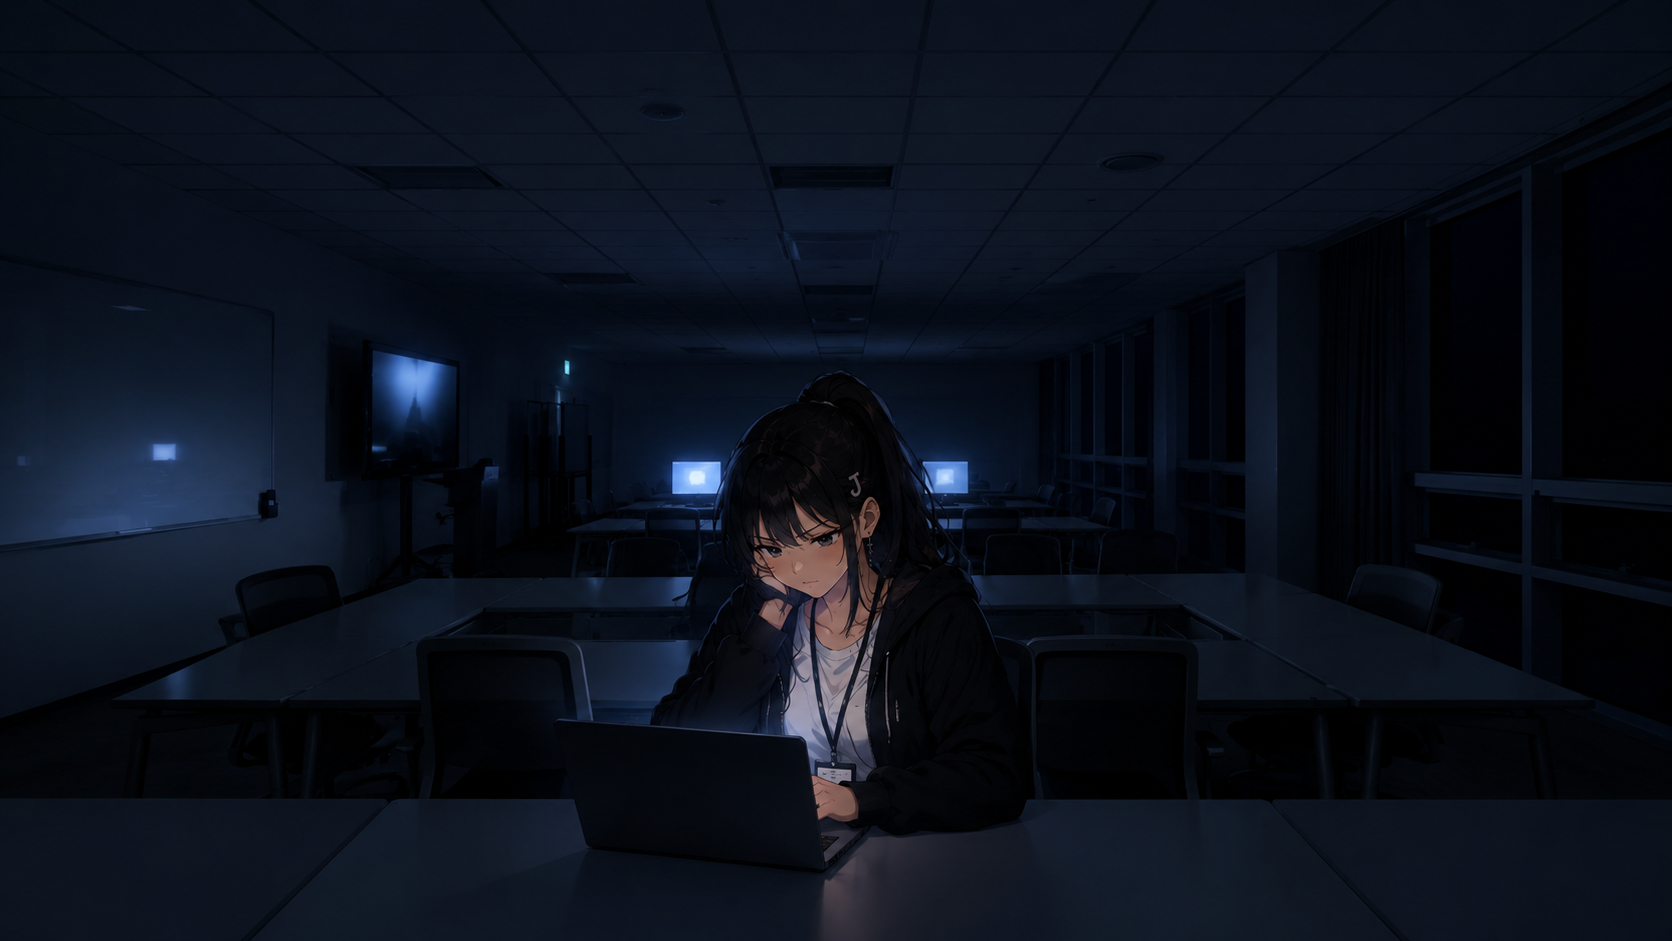
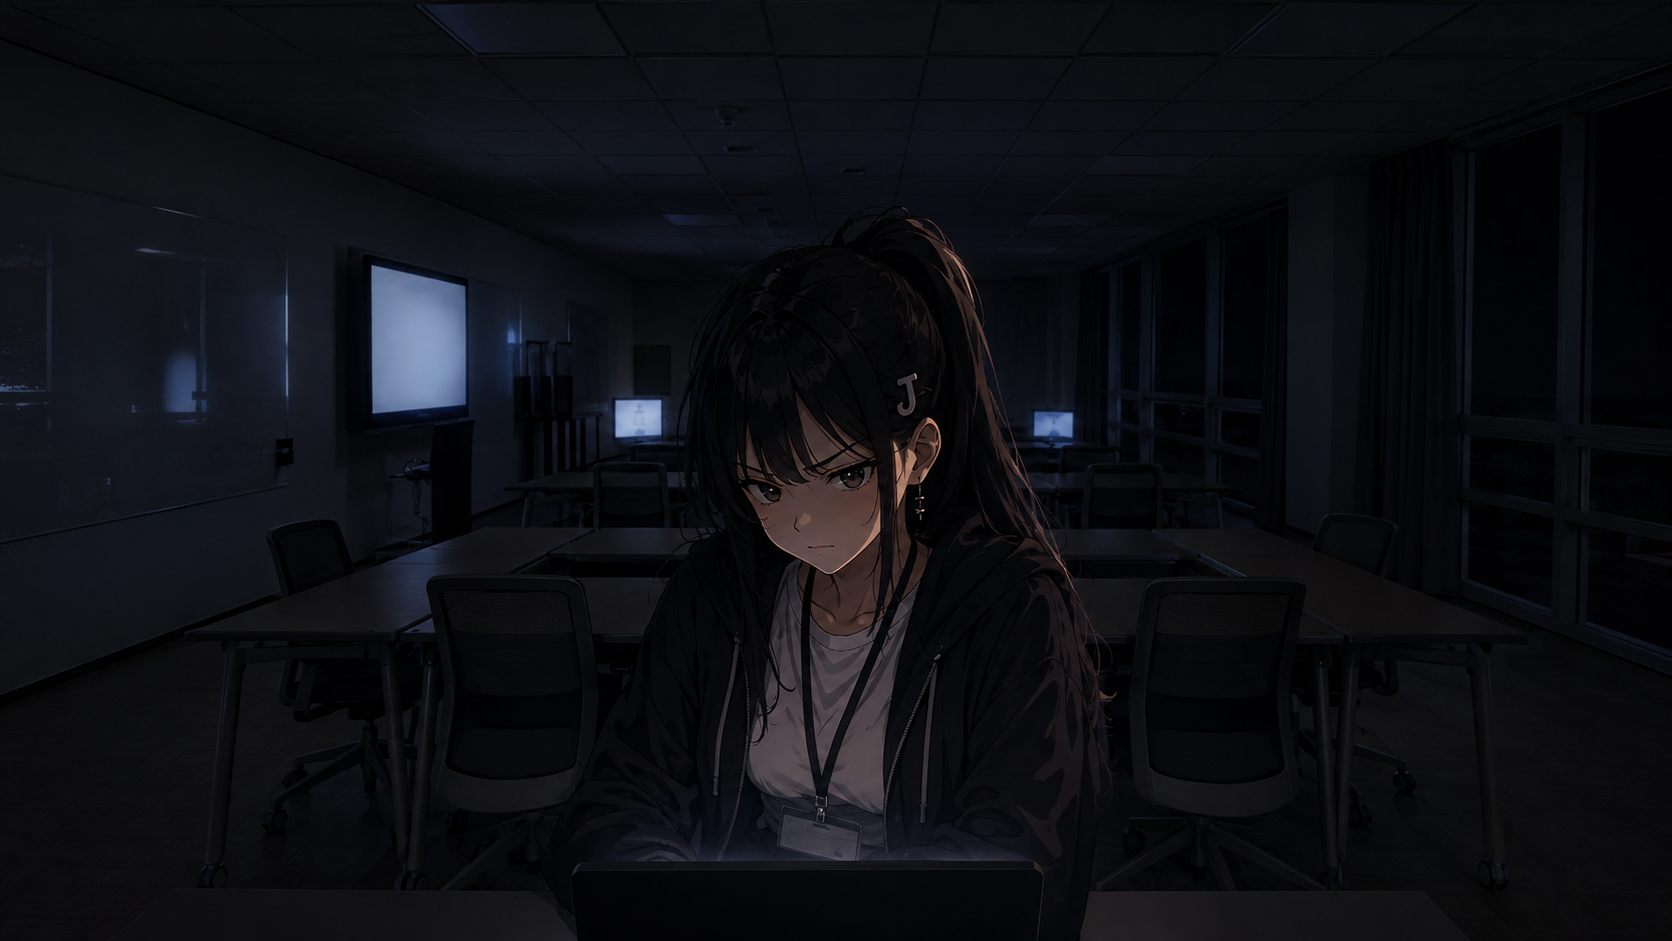
fix: 조원을 긍정에 적는다 · 윤호 뱃지를 세 씬 전부에
부정에서 "여러 명, 군중" 을 뺀 건 안 막았을 뿐이지 넣으라는 뜻이
아니었다. 승희와 윤정이 빈 강의실에 혼자 서 있는 그림으로 나왔다.
둘 다 다른 사람이 있어야 성립하는 순간이다.

  승희  뒤쪽 책상에 조원 서넛이 모여 무언가를 정하고 있음,
        그 무리에서 두세 걸음 떨어져 혼자, 아무도 이쪽을 보지 않음
  윤정  바로 앞에 조원 한 명이 등을 보이고 서 있음

조원은 등을 보이게 한다. 얼굴이 나오면 시선이 분산되고, 도트로만
존재하는 조연들의 얼굴을 여기서 정해버리게 된다.

윤정은 놀람의 종류도 정해줬다
  놀람 칸만 물리니 "깜짝이야" 가 나왔다. 모욕을 들은 순간이라
  "놀라움이 아니라 상처받은 얼굴, 하려던 말이 끊긴 채" 를 넣었다.

윤호 뱃지를 세 씬 전부에 박았다 — 가든에만 넣은 게 누락이었다
  클라이맥스에서 또 두 개로 나왔다. 한 번만 적으면 랜야드 옆에
  하나를 더 만든다. 윤정 헤드폰과 같은 현상이다.
  가든·클라이맥스는 "가슴에 딱 하나뿐", 엔딩은 "사원증 스트랩에
  딱 하나뿐, 가슴이나 옷에는 없음". 뱃지가 옮겨가는 게 5년의
  표시라 엔딩에서 가슴에 남아 있으면 안 된다.

윤호 시선 회피도 말로 적었다. 안 적으니 카메라를 봤다.

T10 민규 · T11 승민은 통과. 민규는 뒤쪽 모니터가 셋 다 켜져 있는데
정작 얼굴에 빛이 안 닿아서 "화면을 안 보고 있다" 가 그림으로 읽힌다.

diff --git a/tools/gen_prompts.py b/tools/gen_prompts.py
@@ -104,7 +104,15 @@ HEROINES = [
         """),
         garden="스케치북을 뺏기듯 내밀고 있음, 부끄러워함, 펼쳐진 페이지엔 사람들의 뒷모습만 그려져 있음",
         garden_face="부끄러움", climax_face="슬픔", ending_face="기쁨",
-        climax="조 결정에서 빠짐, 그때도 말을 못 함, 조금 떨어져 서 있음",
+        # 조원을 긍정에 적어야 그려진다. 부정에서 "여러 명, 군중" 을 뺀 건
+        # 안 막았을 뿐이지 넣으라는 뜻이 아니다. 빈 강의실에 혼자 나왔다.
+        # 조원은 등을 보이게 한다 — 얼굴이 나오면 시선이 분산되고, 도트로만
+        # 존재하는 조연들의 얼굴을 여기서 정해버리게 된다.
+        climax=block("""
+            뒤쪽 책상에 조원 서넛이 모여 무언가를 정하고 있음,
+            그 무리에서 두세 걸음 떨어져 혼자 서 있음, 아무도 이쪽을 보지 않음,
+            소매로 손을 감싼 채 말을 꺼내지 못하고 시선을 내림
+        """),
         ending_age=28, ending_bg="gallery",
         ending="이제 먼저 연락하는 사람이 됨, 자기 전시 작품 옆에 서 있음",
         ending_wear=block("""
@@ -134,7 +142,14 @@ HEROINES = [
             데크와 화단은 거의 검게 가라앉아 있음
         """),
         garden_face="슬픔", climax_face="놀람", ending_face="기쁨",
-        climax="헤드폰은 목에 걸려 있음, \"2학년이 뭘 아냐\"는 말을 방금 들음, 말하다 얼어붙음",
+        # 놀람 칸만 물리면 "깜짝이야" 가 나온다. 이건 모욕을 들은 순간이라
+        # 놀람과 상처가 섞이고 그 다음에 말문이 막혀야 한다.
+        climax=block("""
+            헤드폰은 목에 걸려 있음,
+            바로 앞에 조원 한 명이 등을 보이고 서 있음,
+            방금 들은 말에 눈이 커지고 입이 반쯤 벌어진 채 굳음,
+            놀라움이 아니라 상처받은 얼굴, 하려던 말이 끊긴 채 소리가 안 나옴
+        """),
         ending_age=26, ending_bg="gallery",
         ending="졸업작품이 출시된 게임이 됨, 그걸 보여주는 중",
         ending_wear=block("""
@@ -201,12 +216,21 @@ HEROINES = [
             데크와 화단은 거의 검게 가라앉아 있음
         """),
         garden_face="슬픔", climax_face="슬픔", ending_face="기쁨",
-        climax="뭘 하고 싶냐는 질문에 대답하지 못하고 시선을 피함",
+        # 뱃지는 세 씬 전부에 "딱 하나" 를 박아야 한다. 한 번만 적으면 모델이
+        # 랜야드 옆에 하나를 더 만든다. 윤정 헤드폰과 같은 현상이다.
+        # 시선 회피도 말로 적어야 한다 — 안 적으면 카메라를 본다.
+        climax=block("""
+            뭘 하고 싶냐는 질문을 방금 받음, 대답하지 못함,
+            시선을 옆 아래로 돌려 화면 이쪽을 보지 않음, 카메라와 눈을 맞추지 않음,
+            입을 열려다 만 채로 멈춤.
+            강아지 뱃지는 가슴에 딱 하나뿐, 명찰이나 랜야드에는 붙이지 않음
+        """),
         ending_age=25, ending_bg="office",
         ending="드디어 자기 이름으로 자기 작업을 발표함",
         ending_wear=block("""
             흰 셔츠, 가디건 없음,
-            사원증 스트랩에 작은 강아지 모양 뱃지
+            작은 강아지 모양 뱃지는 사원증 스트랩에 딱 하나뿐,
+            가슴이나 옷에는 뱃지가 없음
         """),
         ending_note="**뱃지가 세 번째 자리로 옮겨갑니다** — 가슴(평상복) → 토트백(D7) → 사원증 스트랩.",
         ending_badge=True,

diff --git a/docs/reference/character/prompts/04_still/T12_yunho_climax.md b/docs/reference/character/prompts/04_still/T12_yunho_climax.md
@@ -49,7 +49,10 @@
 흰 티 위에 크림 가디건, 가슴에 작은 강아지 모양 뱃지,
 목에 검은 랜야드 — 줄이 가슴에 보이고 작은 흰 명찰이 명치에 놓임.
 
-뭘 하고 싶냐는 질문에 대답하지 못하고 시선을 피함.
+뭘 하고 싶냐는 질문을 방금 받음, 대답하지 못함,
+시선을 옆 아래로 돌려 화면 이쪽을 보지 않음, 카메라와 눈을 맞추지 않음,
+입을 열려다 만 채로 멈춤.
+강아지 뱃지는 가슴에 딱 하나뿐, 명찰이나 랜야드에는 붙이지 않음.
 
 한국 웹툰 일러스트 화풍, 세미리얼 애니메이션풍, 부드러운 셀 셰이딩,
 깔끔한 선화, 따뜻하고 채도 낮은 팔레트.

diff --git a/docs/reference/character/prompts/04_still/T09_yunjung_climax.md b/docs/reference/character/prompts/04_still/T09_yunjung_climax.md
@@ -50,7 +50,10 @@
 몸보다 훨씬 큰 노란 오버사이즈 후드,
 목에 검은 랜야드 — 줄이 가슴에 보이고 작은 흰 명찰이 명치에 놓임.
 
-헤드폰은 목에 걸려 있음, "2학년이 뭘 아냐"는 말을 방금 들음, 말하다 얼어붙음.
+헤드폰은 목에 걸려 있음,
+바로 앞에 조원 한 명이 등을 보이고 서 있음,
+방금 들은 말에 눈이 커지고 입이 반쯤 벌어진 채 굳음,
+놀라움이 아니라 상처받은 얼굴, 하려던 말이 끊긴 채 소리가 안 나옴.
 
 한국 웹툰 일러스트 화풍, 세미리얼 애니메이션풍, 부드러운 셀 셰이딩,
 깔끔한 선화, 따뜻하고 채도 낮은 팔레트.

diff --git a/docs/reference/character/prompts/04_still/T08_seunghee_climax.md b/docs/reference/character/prompts/04_still/T08_seunghee_climax.md
@@ -50,7 +50,9 @@
 소매로 손을 덮은 베이지 니트,
 목에 검은 랜야드 — 줄이 가슴에 보이고 작은 흰 명찰이 명치에 놓임.
 
-조 결정에서 빠짐, 그때도 말을 못 함, 조금 떨어져 서 있음.
+뒤쪽 책상에 조원 서넛이 모여 무언가를 정하고 있음,
+그 무리에서 두세 걸음 떨어져 혼자 서 있음, 아무도 이쪽을 보지 않음,
+소매로 손을 감싼 채 말을 꺼내지 못하고 시선을 내림.
 
 한국 웹툰 일러스트 화풍, 세미리얼 애니메이션풍, 부드러운 셀 셰이딩,
 깔끔한 선화, 따뜻하고 채도 낮은 팔레트.

diff --git a/docs/reference/character/prompts/04_still/T18_yunho_ending.md b/docs/reference/character/prompts/04_still/T18_yunho_ending.md
@@ -39,7 +39,8 @@
 25세, 드디어 자기 이름으로 자기 작업을 발표함.
 
 흰 셔츠, 가디건 없음,
-사원증 스트랩에 작은 강아지 모양 뱃지.
+작은 강아지 모양 뱃지는 사원증 스트랩에 딱 하나뿐,
+가슴이나 옷에는 뱃지가 없음.
 
 한국 웹툰 일러스트 화풍, 세미리얼 애니메이션풍, 부드러운 셀 셰이딩,
 깔끔한 선화, 따뜻하고 채도 낮은 팔레트.
